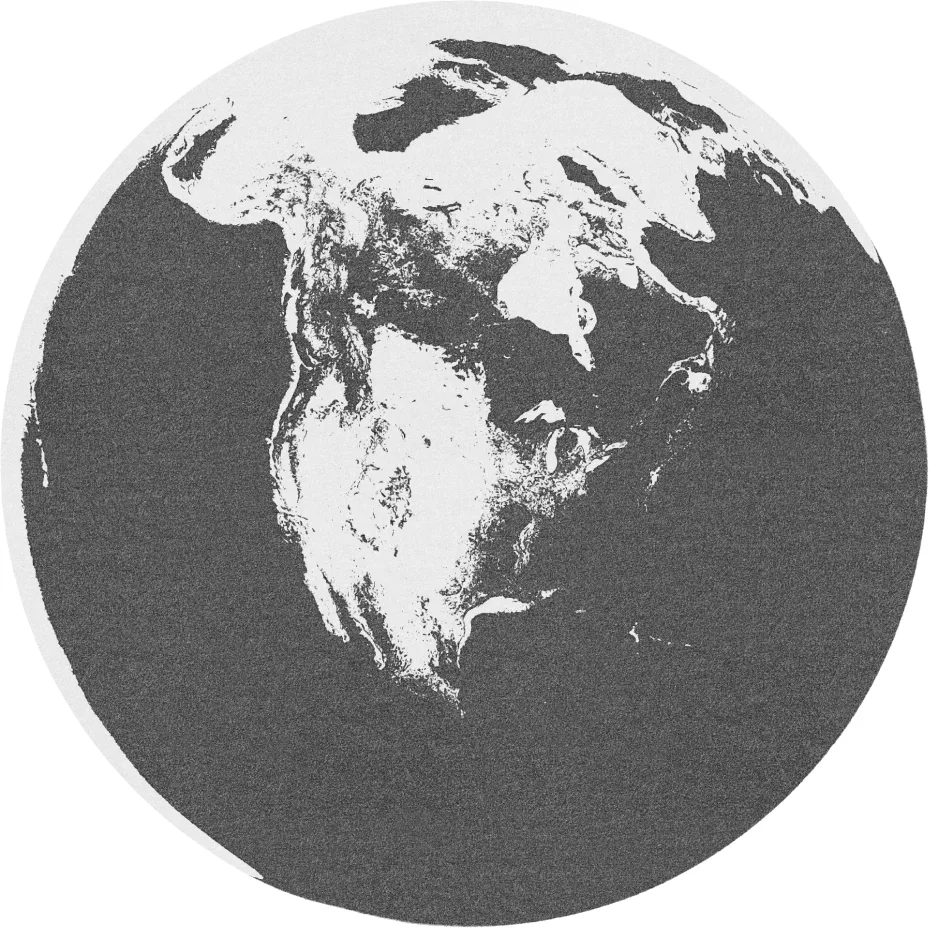
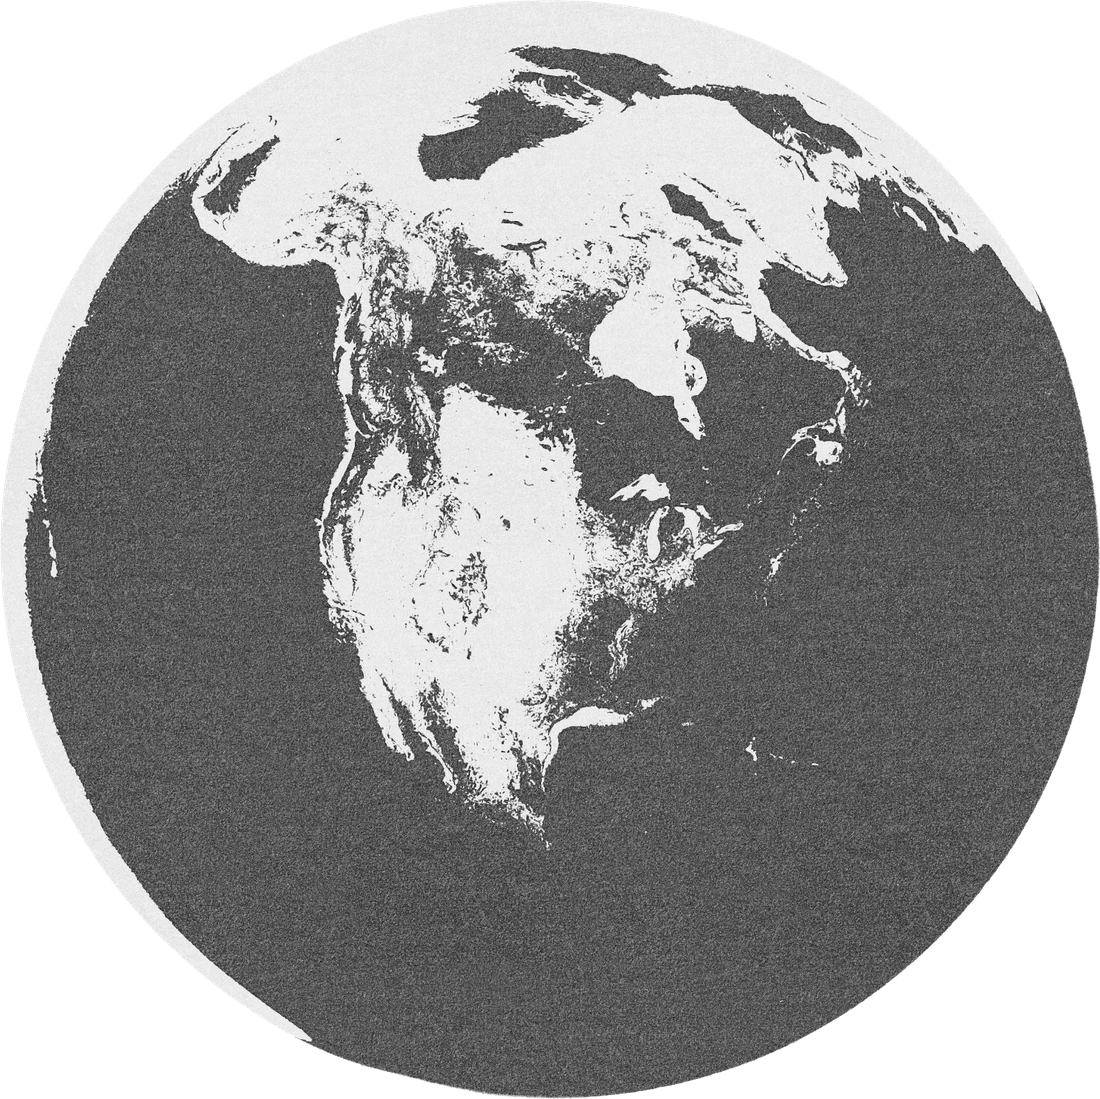
Fix cut-out alpha, contain panelled figures, and two spacing errors
**The globe's white box.** Its source is a 1919x1918 PNG cut-out, and I had
exported it through exportAsync as JPEG, which flattens alpha onto white.
Re-fetched all five figure sources — every one of them is PNG — and re-encoded
with alpha kept only where it is actually used. "Is a PNG" turned out not to
mean "is a cut-out": testing `alpha.min < 250` flagged two photographs as
transparent on a handful of edge pixels. Mean alpha separates them cleanly —
cover-cutout 163 and globe 200 against 254–255 for the photos — so the two
genuine cut-outs keep their channel and the rest are flattened. Assets total
3.0MB.

**The globe being cropped.** A figure on a panel is now contained rather than
cover-fitted. Cropping a photograph to a frame is right; cropping a silhouette
just cuts a piece off it. Centring inside the inset box also reproduces the
file's asymmetric 44pt/49pt vertical padding for free, since the panel is
taller than the square it holds.

**Methodology** ran too near its foot rule: dropped the 70pt gap between the
lede and the first ruled sub-head, which the file does not have.

**Findings** closing passage is bottom-aligned in the file — y532, ending at
812 against the 822 rule — not sat at a measured 200pt gap. Uses a fill spacer,
so it stays at the foot as copy changes.

Also fixes a corrupted line in SpreadStrip from an earlier scripted edit:
`canvas.style.width` was being set to the literal `-epx`, which browsers
[…]

diff --git a/src/render/compose.ts b/src/render/compose.ts
@@ -118,8 +118,21 @@ function rule(env: LeafEnv, box: Rect, y: number): number {
   return h
 }
 
-/** Cover-fit an image into a rect around a focal point. */
-function drawImage(env: LeafEnv, img: HTMLImageElement | null, r: Rect, focus = { x: 0.5, y: 0.5 }): void {
+/**
+ * Draw an image into a rect.
+ *
+ * `cover` fills the rect and crops the overflow — right for a photograph in a
+ * frame, where the frame's proportions are the design. `contain` fits the whole
+ * image inside and centres it, which is what a cut-out needs: cropping a
+ * silhouette just lops a piece off it.
+ */
+function drawImage(
+  env: LeafEnv,
+  img: HTMLImageElement | null,
+  r: Rect,
+  focus = { x: 0.5, y: 0.5 },
+  fit: 'cover' | 'contain' = 'cover',
+): void {
   if (!img || !img.width || !img.height) {
     // A placeholder rather than nothing: an un-decoded image that painted
     // invisibly would look like a layout bug rather than a missing asset.
@@ -129,11 +142,17 @@ function drawImage(env: LeafEnv, img: HTMLImageElement | null, r: Rect, focus = 
     env.ctx.restore()
     return
   }
-  const scale = Math.max(r.w / img.width, r.h / img.height)
+  const scale =
+    fit === 'contain'
+      ? Math.min(r.w / img.width, r.h / img.height)
+      : Math.max(r.w / img.width, r.h / img.height)
   const w = img.width * scale
   const h = img.height * scale
-  const x = r.x + (r.w - w) * focus.x
-  const y = r.y + (r.h - h) * focus.y
+  // A contained image is centred; a covered one is positioned by its focal
+  // point, which is what decides which part of it survives the crop.
+  const at = fit === 'contain' ? { x: 0.5, y: 0.5 } : focus
+  const x = r.x + (r.w - w) * at.x
+  const y = r.y + (r.h - h) * at.y
   env.ctx.save()
   env.ctx.beginPath()
   env.ctx.rect(r.x, r.y, r.w, r.h)
@@ -407,12 +426,16 @@ function paintBlock(env: LeafEnv, block: Block, box: Rect, opts: PaintOpts = {})
         ctx.fillStyle = SURFACES[block.panel]
         ctx.fillRect(box.x, box.y, w, h)
         ctx.restore()
+        // Contained, not cropped: what sits on a panel is a cut-out, and the
+        // panel is taller than the inset square so the image centres in it —
+        // measured at 44pt above and 49pt below on the executive-summary globe.
         const inset = sheet.pt(block.inset ?? 25)
         drawImage(
           env,
           env.assets.image(block.imageRef),
           { x: box.x + inset, y: box.y + inset, w: w - inset * 2, h: h - inset * 2 },
           block.focus,
+          'contain',
         )
       } else {
         drawImage(env, env.assets.image(block.imageRef), { x: box.x, y: box.y, w, h }, block.focus)

diff --git a/src/store/session.ts b/src/store/session.ts
@@ -1,6 +1,6 @@
 import type { Deck } from '../doc/types'
 import { createDeck } from '../doc/defaults'
-import { CURRENT_VERSION, migrate, type StoredAny, type StoredV5 } from './migrations'
+import { CURRENT_VERSION, migrate, type StoredAny, type Stored } from './migrations'
 
 /**
  * The storage key, deliberately NOT versioned alongside the schema. Bumping it
@@ -16,7 +16,7 @@ export function saveSession(deck: Deck, leafIndex = 0): void {
   try {
     // A document is plain JSON all the way down — decoded images live in
     // `doc/imageCache.ts`, so there is nothing to strip out first.
-    const json = JSON.stringify({ v: CURRENT_VERSION, deck, leafIndex } satisfies StoredV5)
+    const json = JSON.stringify({ v: CURRENT_VERSION, deck, leafIndex } satisfies Stored)
     if (json.length > MAX_BYTES) {
       console.warn(
         `[session] not saving: ${(json.length / 1e6).toFixed(1)}MB exceeds the ${MAX_BYTES / 1e6}MB limit.`,
@@ -34,7 +34,7 @@ export function saveSession(deck: Deck, leafIndex = 0): void {
  * `migrations.ts` for why those are dropped rather than converted).
  */
 export function loadSession(): Deck | null {
-  let stored: StoredV5 | null
+  let stored: Stored | null
   try {
     const raw = localStorage.getItem(KEY)
     if (!raw) return null

diff --git a/src/doc/toolsForChange.ts b/src/doc/toolsForChange.ts
@@ -382,7 +382,6 @@ const leaves: Leaf[] = [
         text:
           'During the summer and fall of 2023, le HUB team members conducted a needs assessment process through in-depth interviews with organizers in climate justice groups across Anglophone Canada. The intent was to hear directly from organizers in the climate justice movement about their current activities and projects, biggest challenges, and ideas for more tailored support and resources from the HUB.',
       }),
-      b({ kind: 'spacer', height: 70 }),
       b({ kind: 'subhead', text: 'Participant recruitment' }),
       b({
         kind: 'para',
@@ -462,7 +461,7 @@ const leaves: Leaf[] = [
         text:
           'At the heart of all organizing and movement building is human relationships and interactions, and actions taken to bring about positive change in the world. To organize is to do together what one cannot achieve alone; organizing is a form of collective action.',
       }),
-      b({ kind: 'spacer', height: 200 }),
+      b({ kind: 'spacer', height: 'fill' }),
       b({ kind: 'rule' }),
       b({
         kind: 'para',

diff --git a/src/store/migrations.ts b/src/store/migrations.ts
@@ -34,10 +34,12 @@ import type { Deck } from '../doc/types'
  * Once the transcription settles, this stops moving and real documents start
  * surviving upgrades.
  */
-export const CURRENT_VERSION = 5
+export const CURRENT_VERSION = 6
 
-export interface StoredV5 {
-  v: 5
+/** The current stored payload. Deliberately unversioned in its *name* — the
+ * version lives in the field, and renaming the type on every bump was churn. */
+export interface Stored {
+  v: typeof CURRENT_VERSION
   deck: Deck
   leafIndex: number
 }
@@ -46,9 +48,9 @@ export interface StoredV5 {
 export type StoredAny = { v?: number } & Record<string, unknown>
 
 /** Null when the payload predates the current version and can't be carried over. */
-export function migrate(raw: StoredAny): StoredV5 | null {
+export function migrate(raw: StoredAny): Stored | null {
   if (raw?.v !== CURRENT_VERSION) return null
-  const stored = raw as unknown as StoredV5
+  const stored = raw as unknown as Stored
   if (!stored.deck || !Array.isArray(stored.deck.leaves)) return null
   return stored
 }

diff --git a/src/components/SpreadStrip.tsx b/src/components/SpreadStrip.tsx
@@ -37,7 +37,7 @@ function Thumb({
     const w = Math.round((leaf.full ? THUMB_W * 2 : THUMB_W) * dpr)
     canvas.width = w
     canvas.height = Math.round(THUMB_W * dpr * (PAGE_H / PAGE_W))
-    canvas.style.width = `-epx`
+    canvas.style.width = `${leaf.full ? THUMB_W * 2 : THUMB_W}px`
     const ctx = canvas.getContext('2d')
     if (!ctx) return
     // `thumb` skips the overlays — grain at 74px is invisible and not free.
